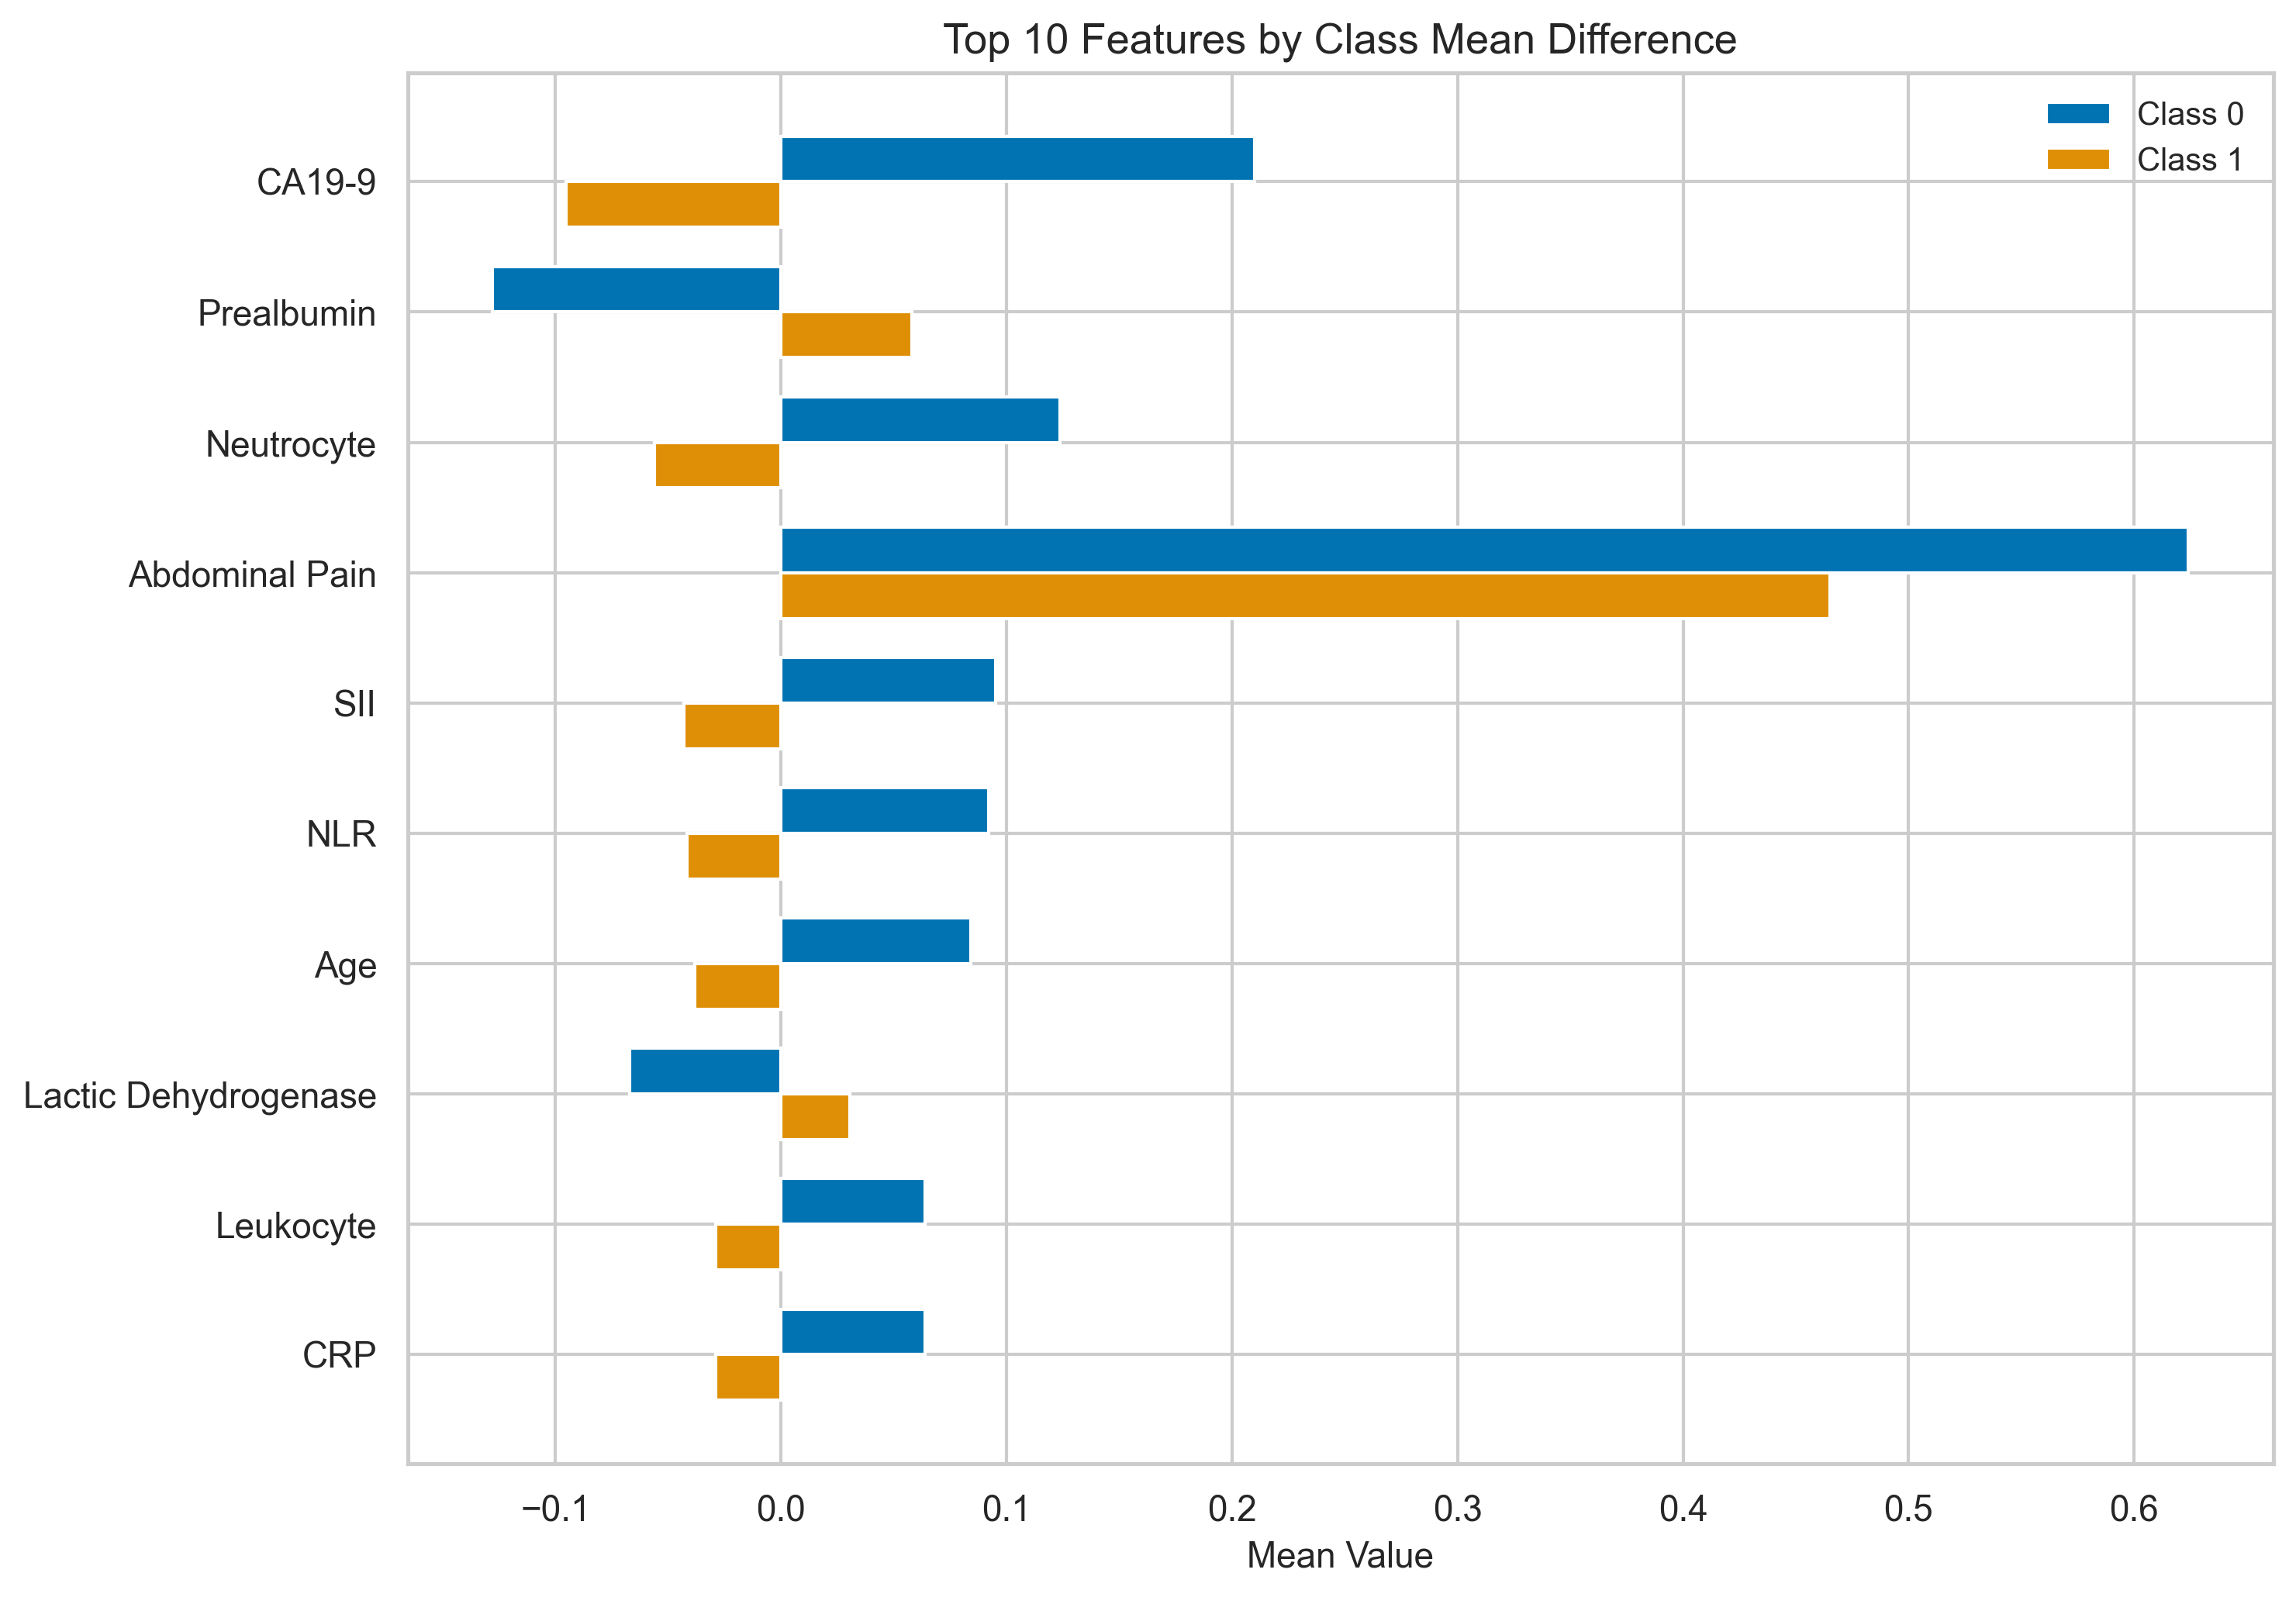
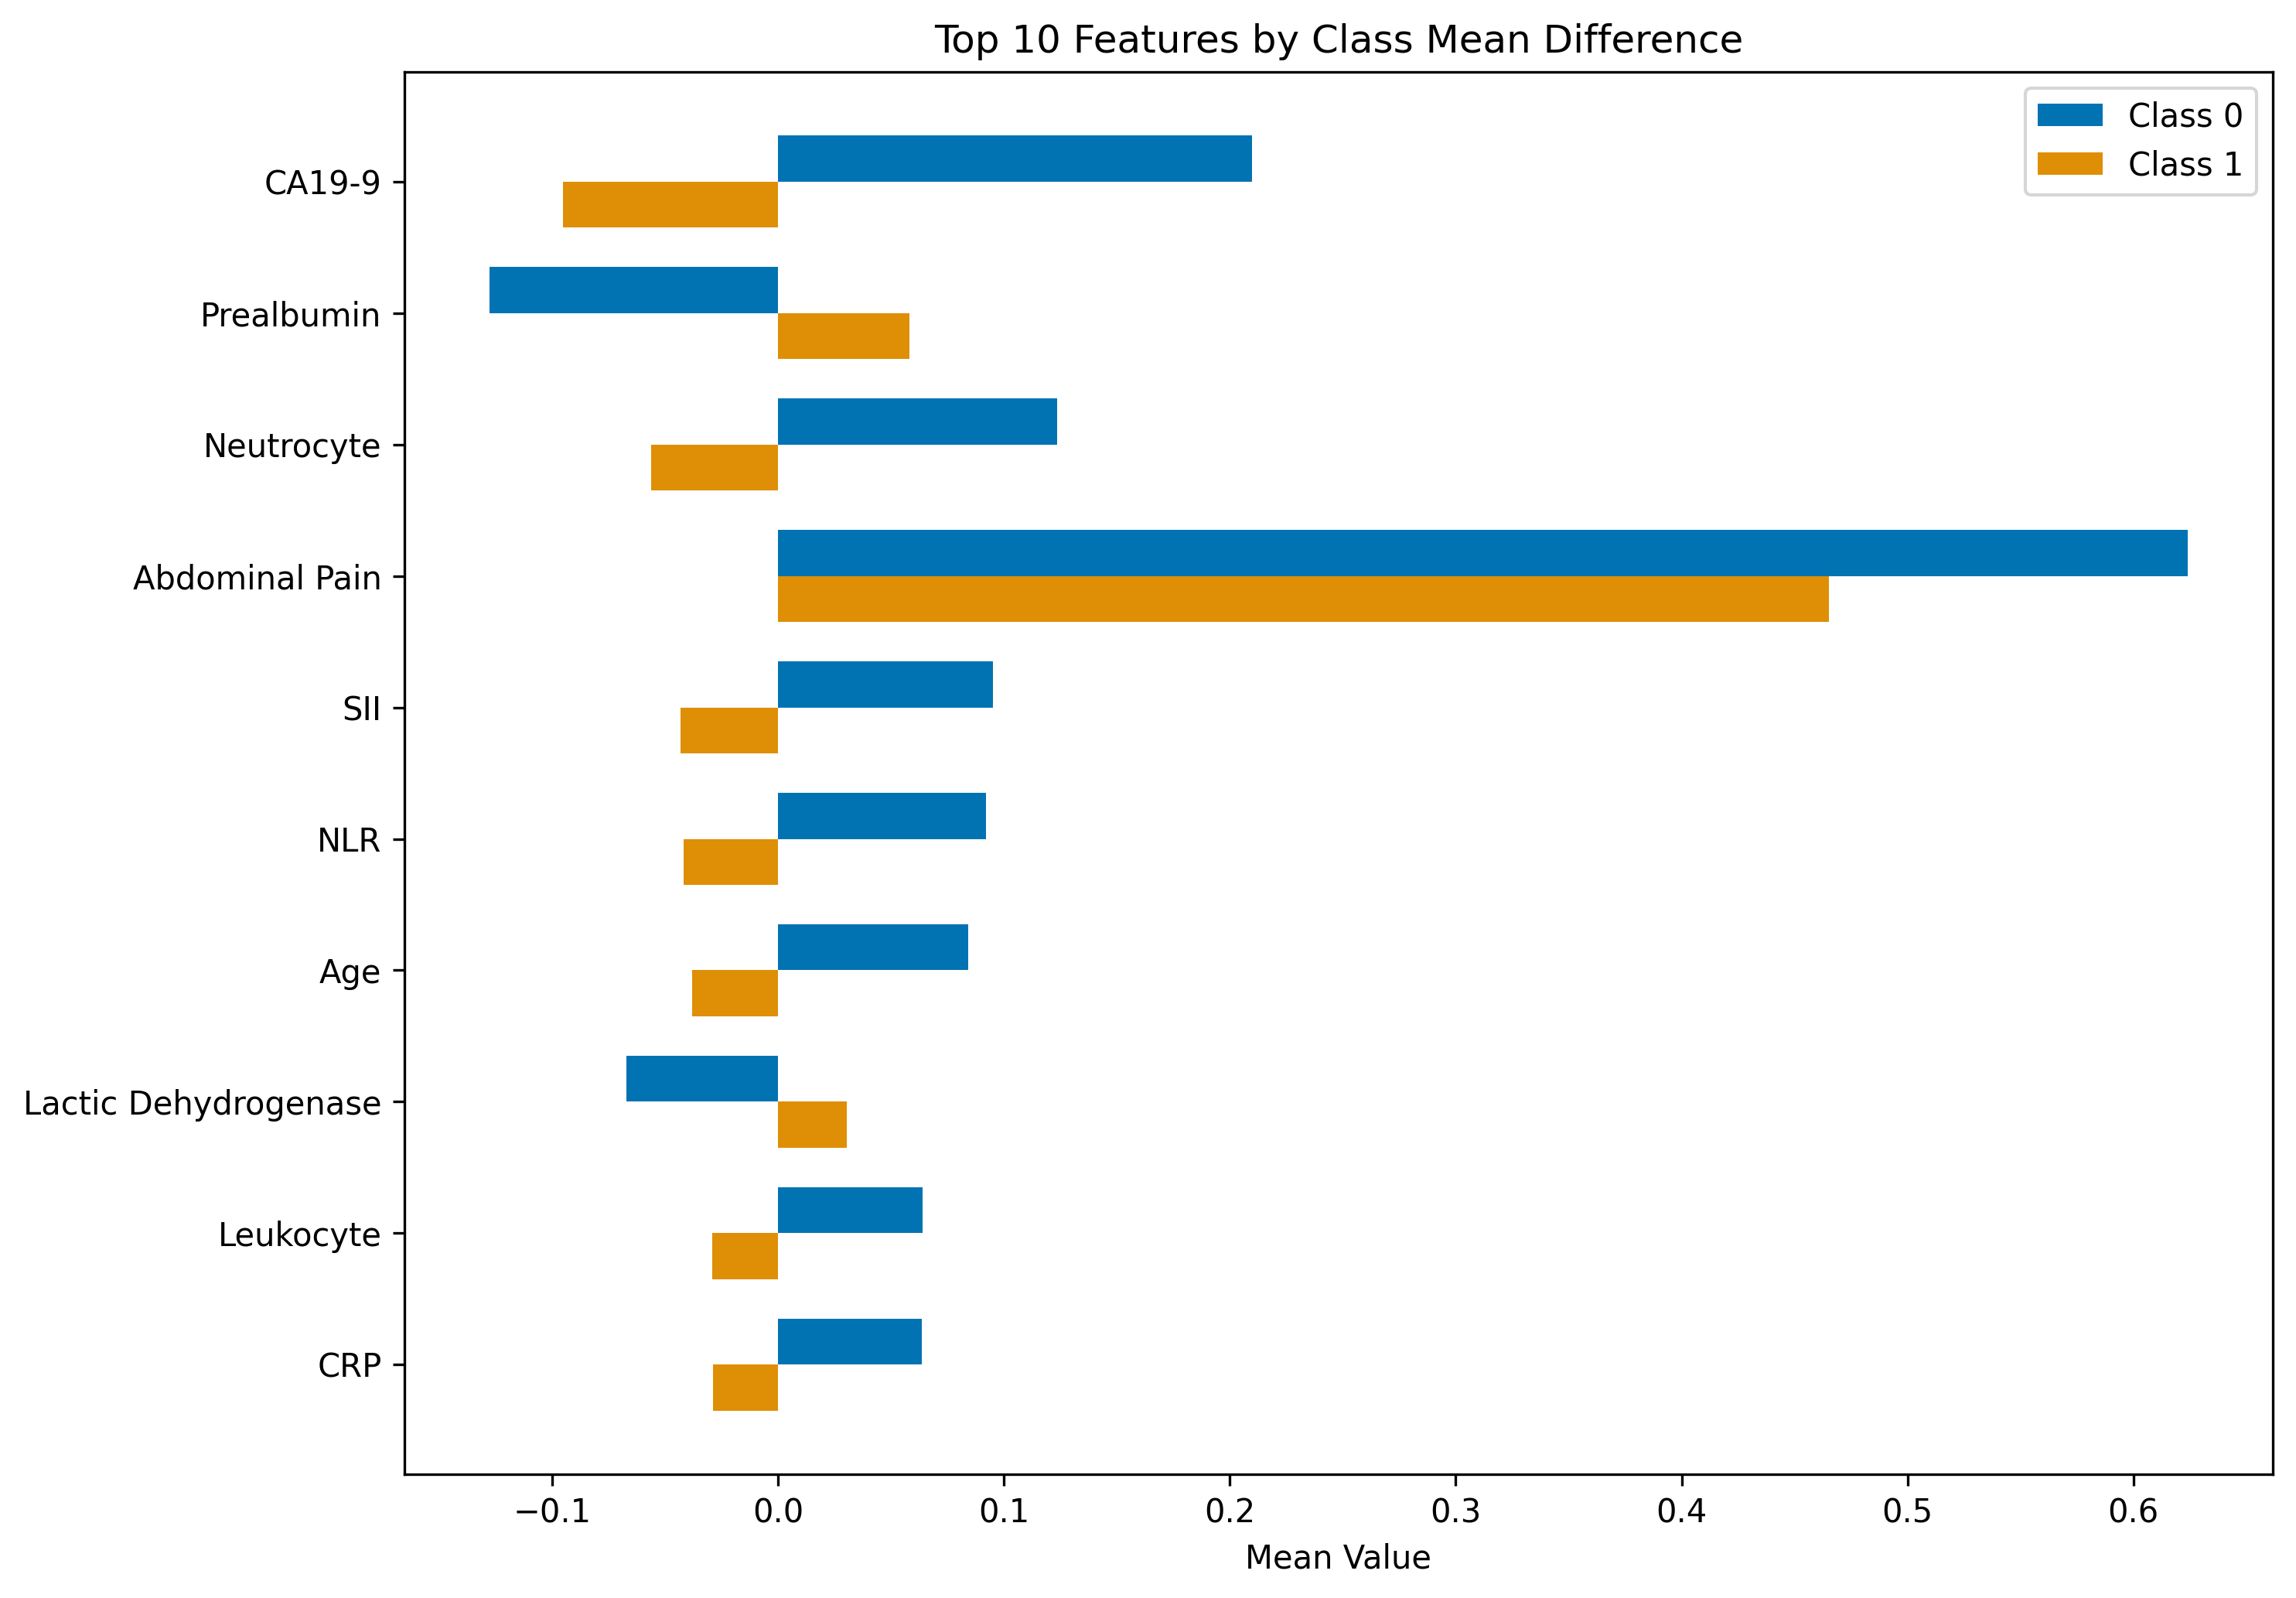
updated notebook for more parallel markdown cells

diff --git a/Documentations/PCSPF_Capstone_Defense_Presentation.html b/Documentations/PCSPF_Capstone_Defense_Presentation.html
@@ -379,8 +379,8 @@ body.show-notes .snotes{display:block}
       <p class="fig-cap">Source: PCSPF Capstone, n=878, Section 3.3</p>
     </div></div>
       <div class="lr-right fig-right">
-        <ul><li>Right-skewed: CA19-9, CRP, CEA, bilirubin (heavy clinical tails)</li><li>D'Agostino-Pearson: most features non-normal (p &lt; 0.05)</li><li>Decision: no Yeo-Johnson transform (RF rank-invariant; scaler for K-Means)</li></ul>
-        <div class="callout stat compact"><strong>Statistical reading</strong><p>Right-skewed distributions on CA19-9, CRP, CEA, and bilirubin. Released file values are already z-scored (mean~0, std&gt;=1).</p></div>
+        <ul><li>Right-skewed: CEA, PLR/NLR/SII, CRP, bilirubin (CA19-9 moderate only)</li><li>D'Agostino-Pearson: most features non-normal (p &lt; 0.05)</li><li>Decision: no Yeo-Johnson transform (RF rank-invariant; scaler for K-Means)</li></ul>
+        <div class="callout stat compact"><strong>Statistical reading</strong><p>Heaviest right skew on CEA, inflammatory ratios (PLR, Neutrocyte, NLR, SII), CRP, and bilirubin. CA19-9 is moderately skewed only (Section 4.5).</p></div>
         <div class="callout clinical compact"><strong>Clinical interpretation</strong><p>Most tumor markers and inflammation labs have long right tails - a few patients with very high CA19-9, CRP, or bilirubin. Clinically, those extremes often reflect advanced obstructive jaundice, heavy tumor burden, or systemic inflammation rather than &#x27;bad data points.&#x27;</p></div>
       </div>
     </div></div>
@@ -419,7 +419,7 @@ body.show-notes .snotes{display:block}
       <p class="fig-cap">Source: PCSPF Capstone, n=878, Section 3.7</p>
     </div></div>
       <div class="lr-right fig-right">
-        <ul><li>Largest gaps: Abdominal Pain, CA19-9, Prealbumin, inflammatory markers</li><li>Boxplots show heavy overlap &mdash; weak univariate separation</li><li>Multivariate modeling still warranted</li></ul>
+        <ul><li>Largest gaps: Abdominal Pain, CA19-9, Prealbumin, inflammatory markers</li></ul>
         <div class="callout stat compact"><strong>Statistical reading</strong><p>Largest gaps: Abdominal Pain, CA19-9, Prealbumin, inflammatory markers. Differences are visible but modest.</p></div>
         <div class="callout clinical compact"><strong>Clinical interpretation</strong><p>Patients who died within a year reported more abdominal pain and had higher CA19-9 with lower prealbumin - a pattern consistent with symptomatic, nutritionally depleted, higher-burden disease at presentation. These are clinically recognizable risk signals even though none dominates alone.</p></div>
       </div>
@@ -446,7 +446,7 @@ body.show-notes .snotes{display:block}
   <div class="si">
     <span class="snum">10</span>
     <h2 class="st">Preprocessing: Data Quality Checks</h2>
-    <div class="sb"><div class="vt-list"><div class="vt-item"><span class="vt-num">1</span><div><strong>Data Types Verified</strong><p>20 predictors + target after cleaning: 2 binary (Sex, Abdominal Pain) as integers; 18 continuous labs as float64. Confirmed before any modeling step.</p></div></div><div class="vt-item"><span class="vt-num">2</span><div><strong>Missing Values: None</strong><p>Zero nulls across all 878 rows and 21 columns. Verified with isnull().sum(), df.info(), and df.describe() -- no imputation required.</p></div></div><div class="vt-item"><span class="vt-num">3</span><div><strong>Duplicate Rows: None</strong><p>0 duplicate patient records detected. Each row represents one unique surgical case with complete preoperative feature set.</p></div></div><div class="vt-item"><span class="vt-num">4</span><div><strong>Imputation: Not Applied</strong><p>Because the released PCSPF file is complete, we did not introduce synthetic values. This preserves the original clinical cohort without imputation bias.</p></div></div></div></div>
+    <div class="sb"><div class="vt-list"><div class="vt-item"><span class="vt-num">1</span><div><strong>Data Types Verified</strong><p>20 predictors + target after cleaning: 2 binary (Sex, Abdominal Pain) as integers; 18 continuous labs as float64. Confirmed before any modeling step.</p></div></div><div class="vt-item"><span class="vt-num">2</span><div><strong>Missing Values: None</strong><p>Zero nulls across all 878 rows and 21 columns. Verified with isnull().sum(), df.info(), and df.describe() -- no imputation required.</p></div></div><div class="vt-item"><span class="vt-num">3</span><div><strong>Duplicate Rows: None</strong><p>0 duplicate patient records detected. Each row represents one unique surgical case with complete preoperative feature set.</p></div></div><div class="vt-item"><span class="vt-num">4</span><div><strong>Imputation: Not Applied</strong><p>Because the released PCSPF file is complete, we did not introduce synthetic values. This preserves the original clinical cohort without imputation bias.</p></div></div><div class="vt-item"><span class="vt-num">5</span><div><strong>Column Cleaning and Released Scale</strong><p>Dropped ID and Predict label 1/0 (100% NaN in raw file). Clean frame: 878 rows &amp;times; 21 columns (20 features + target). Continuous labs are pre-z-scored in the released PCSPF file (mean &amp;asymp; 0, std &amp;asymp; 1).</p></div></div></div></div>
     <aside class="snotes"><strong>Speaker notes:</strong> Speak slowly; professor audits preprocessing.</aside>
   </div>
 </section>
@@ -462,9 +462,9 @@ body.show-notes .snotes{display:block}
       <p class="fig-cap">Source: PCSPF Capstone, n=878, Section 4.4</p>
     </div></div>
       <div class="lr-right fig-right">
-        <p><strong>IQR rule (1.5&times;)</strong> on 18 continuous features</p><ul><li>Extreme values on CA19-9, CRP, CEA, bilirubin &mdash; retained</li><li>Clinically severe patients, not recording errors</li><li>Removing outliers would bias toward healthier cases</li><li>No normality transform applied (RF rank-invariant)</li></ul>
-        <div class="callout stat compact"><strong>Statistical reading</strong><p>Outliers concentrate on CA19-9, CRP, CEA, and bilirubin - extreme lab values, not data errors.</p></div>
-        <div class="callout clinical compact"><strong>Clinical interpretation</strong><p>The flagged outliers are exactly the markers that spike in aggressive pancreatic cancer: markedly elevated CA19-9 or CEA, high CRP from inflammation, and bilirubin from biliary obstruction. These patients are often the most clinically complex - not statistical noise.</p></div>
+        <p><strong>IQR rule (1.5&times;)</strong> on 18 continuous features</p><ul><li>Extreme values on CEA, CRP, inflammatory ratios, and bilirubin &mdash; retained</li><li>Clinically severe patients, not recording errors</li><li>Removing outliers would bias toward healthier cases</li><li>No normality transform applied (RF rank-invariant)</li></ul>
+        <div class="callout stat compact"><strong>Statistical reading</strong><p>Outliers concentrate on CEA (10.4%), NLR/SII, CRP/CRP/ALB, and bilirubin - extreme lab values, not data errors. CA19-9 has zero IQR outliers (wide Q1-Q3 spread); its right skew appears in histograms (Section 3.3), not as dots beyond these whiskers.</p></div>
+        <div class="callout clinical compact"><strong>Clinical interpretation</strong><p>Flagged outliers reflect severe preoperative disease: CEA reaches the most extreme z-scores (~27), with inflammatory indices (NLR, SII, PLR, Neutrocyte) and bilirubin also extending past z~10. CA19-9 remains clinically relevant in EDA and RF importance even though the IQR rule flags zero outliers here.</p></div>
       </div>
     </div></div>
     <aside class="snotes"><strong>Speaker notes:</strong> Stress clinical validity of extreme labs. Defense: outliers carry prognostic signal.</aside>
@@ -1002,7 +1002,7 @@ body.show-notes .snotes{display:block}
   <div class="si">
     <span class="snum">A8</span>
     <h2 class="st">Appendix: Preprocessing Decision Register</h2>
-    <div class="sb"><p class="tbl-label">Table 14. Full preprocessing register</p><table class="dt"><thead><tr><th>Step</th><th>Action</th><th>Justification</th></tr></thead><tbody><tr><td>Drop ID, Predict labels</td><td>Removed 3 columns</td><td>ID anonymized; Predict columns 100% NaN — unusable labels.</td></tr><tr><td>Missing values</td><td>No imputation</td><td>Zero nulls after column drop; verified three ways.</td></tr><tr><td>Duplicates</td><td>None removed</td><td>0 duplicate rows confirmed.</td></tr><tr><td>Outliers</td><td>Retained all</td><td>IQR/z-score documented; extremes are clinically severe patients.</td></tr><tr><td>Normality transform (Yeo-Johnson)</td><td>Not applied</td><td>RF rank-invariant; StandardScaler sufficient for K-Means.</td></tr><tr><td>Multicollinearity (VIF)</td><td>Retain all 20 features</td><td>RF random feature subsampling; ratio features clinically validated.</td></tr><tr><td>Feature engineering</td><td>None added</td><td>NLR, PLR, SII, CRP/ALB already in dataset.</td></tr><tr><td>Feature selection</td><td>All 20 retained</td><td>Same set for RF and K-Means; importance post-hoc.</td></tr><tr><td>SMOTE</td><td>Not used</td><td>class_weight=&#x27;balanced&#x27; preferred; real patients only.</td></tr><tr><td>RF scaling</td><td>None</td><td>Tree splits are scale-invariant.</td></tr><tr><td>K-Means scaling</td><td>StandardScaler on full X (878×20)</td><td>Euclidean distance requires comparable scales.</td></tr><tr><td>Train-test split</td><td>80/20 stratified, seed=42</td><td>702 train / 176 test; proportions preserved.</td></tr></tbody></table></div>
+    <div class="sb"><p class="tbl-label">Table 14. Full preprocessing register</p><table class="dt"><thead><tr><th>Step</th><th>Action</th><th>Justification</th></tr></thead><tbody><tr><td>Drop ID, Predict labels</td><td>Removed 3 columns</td><td>ID anonymized; Predict columns 100% NaN — unusable labels.</td></tr><tr><td>Missing values</td><td>No imputation</td><td>Zero nulls after column drop; verified three ways.</td></tr><tr><td>Duplicates</td><td>None removed</td><td>0 duplicate rows confirmed.</td></tr><tr><td>Outliers</td><td>Retained all</td><td>IQR documented; highest on CEA (10.4%), NLR/SII, CRP, bilirubin; CA19-9 = 0% (wide IQR).</td></tr><tr><td>Normality transform (Yeo-Johnson)</td><td>Not applied</td><td>RF rank-invariant; StandardScaler sufficient for K-Means.</td></tr><tr><td>Multicollinearity (VIF)</td><td>Retain all 20 features</td><td>RF random feature subsampling; ratio features clinically validated.</td></tr><tr><td>Feature engineering</td><td>None added</td><td>NLR, PLR, SII, CRP/ALB already in dataset.</td></tr><tr><td>Feature selection</td><td>All 20 retained</td><td>Same set for RF and K-Means; importance post-hoc.</td></tr><tr><td>SMOTE</td><td>Not used</td><td>class_weight=&#x27;balanced&#x27; preferred; real patients only.</td></tr><tr><td>RF scaling</td><td>None</td><td>Tree splits are scale-invariant.</td></tr><tr><td>K-Means scaling</td><td>StandardScaler on full X (878×20)</td><td>Euclidean distance requires comparable scales.</td></tr><tr><td>Train-test split</td><td>80/20 stratified, seed=42</td><td>702 train / 176 test; proportions preserved.</td></tr></tbody></table></div>
     <aside class="snotes"><strong>Speaker notes:</strong> Full register for audit questions.</aside>
   </div>
 </section>

diff --git a/scripts/update_notebook_markdown.py b/scripts/update_notebook_markdown.py
@@ -59,6 +59,29 @@ SYNTHESIS_CELL = """**Ranking comparison (Section 8.1).** Random Forest Gini imp
 
 CONVERGENCE_PARA = """**Partial convergence.** Only CRP/ALB ranks in both top-5 lists. RF and K-Means weight different markers because prediction and phenotype grouping are different tasks. Together they still support a coherent clinical story about tumor burden, nutrition, and inflammation - without implying the same features drive both analyses equally."""
 
+TEXT_REPLACEMENTS = [
+    (
+        "This imbalance will be addressed later with class_weight='balanced' in Random Forest.",
+        "This imbalance will be addressed with class_weight='balanced' in Random Forest and evaluated with macro F1 and class-0 recall rather than accuracy alone.",
+    ),
+    (
+        "We will use class_weight='balanced' in Random Forest and emphasize F1-score and AUC-ROC in evaluation.",
+        "We address this with class_weight='balanced' in Random Forest and evaluate with **macro F1**, **class-0 recall**, AUC-ROC, and the full classification report—not accuracy alone. Hyperparameter tuning in Section 7.2 uses `scoring='f1_macro'` so the GridSearch objective matches our primary test metrics.",
+    ),
+    (
+        "Evaluation emphasizes F1-score, AUC-ROC, confusion matrix, and full classification report rather than accuracy alone.",
+        "Primary evaluation metrics are **macro F1** and **class-0 recall** (both classes matter under imbalance), plus AUC-ROC, confusion matrix, and classification report. GridSearchCV in Section 7.2 tunes with `scoring='f1_macro'`; legacy `scoring='f1'` is retained only as a reference comparison row.",
+    ),
+    (
+        "imbalance handling via class_weight='balanced' is essential.",
+        "imbalance handling via class_weight='balanced' is essential, with Section 7.2 tuning RF using `f1_macro` to align optimization with macro F1 evaluation.",
+    ),
+    (
+        "Overall performance should exceed the 68.8% majority baseline. AUC near 0.7-0.8 is acceptable for clinical screening contexts.",
+        "The primary **f1_macro** tuned model prioritizes balanced class performance over majority-class accuracy: test accuracy (~61.9%) may fall **below** the 68.8% baseline while macro F1 (0.550) and class-0 recall (36.4%) improve versus legacy `f1` tuning. AUC-ROC (0.563) remains below the ~0.7 clinical utility threshold.",
+    ),
+]
+
 CELL_153 = """### 7.5 Model Comparison: Benchmarking Random Forest Against Alternatives
 
 To validate our model choice, we benchmarked the **f1_macro tuned** Random Forest against three alternatives - Logistic Regression, SVM RBF, and Gradient Boosting - on the same train-test split with the same random seed.
@@ -89,6 +112,14 @@ def main():
             cell["source"].pop()
         cell.pop("outputs", None)
         cell.pop("execution_count", None)
+
+    for cell in nb["cells"]:
+        src = "".join(cell.get("source", []))
+        if cell.get("cell_type") != "markdown":
+            continue
+        for old, new in TEXT_REPLACEMENTS:
+            if old in src:
+                cell["source"] = [line.replace(old, new) for line in cell["source"]]
 
     for cell in nb["cells"]:
         src = "".join(cell.get("source", []))

diff --git a/scripts/study_guide_figures.py b/scripts/study_guide_figures.py
@@ -23,7 +23,10 @@ FIGURE_GUIDE = [
     {
         "num": 2, "file": "feature_distributions.png", "section": "3.3",
         "shows": "4x5 grid of histograms + KDE for 18 continuous preoperative features.",
-        "interpretation": "Right-skewed distributions on CA19-9, CRP, CEA, and bilirubin. Released file values are already z-scored (mean~0, std>=1).",
+        "interpretation": (
+            "Heaviest right skew on CEA, inflammatory ratios (PLR, Neutrocyte, NLR, SII), CRP, and bilirubin. "
+            "CA19-9 is moderately skewed only (Section 4.5). Released file values are already z-scored (mean~0, std>=1)."
+        ),
         "clinical_interpretation": (
             "Most tumor markers and inflammation labs have long right tails - a few patients with very high CA19-9, "
             "CRP, or bilirubin. Clinically, those extremes often reflect advanced obstructive jaundice, heavy "
@@ -93,19 +96,22 @@ FIGURE_GUIDE = [
     {
         "num": 6, "file": "outlier_boxplots.png", "section": "4.4",
         "shows": "Per-feature z-score boxplots highlighting IQR outliers.",
-        "interpretation": "Outliers concentrate on CA19-9, CRP, CEA, and bilirubin - extreme lab values, not data errors.",
+        "interpretation": (
+            "Outliers concentrate on CEA (10.4%), NLR/SII, CRP/CRP/ALB, and bilirubin - extreme lab values, not data errors. "
+            "CA19-9 has zero IQR outliers (wide Q1-Q3 spread); its right skew appears in histograms (Section 3.3), not as dots beyond these whiskers."
+        ),
         "clinical_interpretation": (
-            "The flagged outliers are exactly the markers that spike in aggressive pancreatic cancer: markedly elevated "
-            "CA19-9 or CEA, high CRP from inflammation, and bilirubin from biliary obstruction. These patients are "
-            "often the most clinically complex - not statistical noise."
+            "Flagged outliers reflect severe preoperative disease: CEA reaches the most extreme z-scores (~27), "
+            "with inflammatory indices (NLR, SII, PLR, Neutrocyte) and bilirubin also extending past z~10. "
+            "CA19-9 remains clinically relevant in EDA and RF importance even though the IQR rule flags zero outliers here."
         ),
         "implications": "Supports retaining all outliers; removal would discard the sickest patients.",
         "clinical_implication": (
-            "Defense line: 'We kept outliers because removing a CA19-9 of 1000 or bilirubin in obstructive jaundice "
-            "would mean training on a healthier, easier subset.' That would inflate accuracy and misrepresent real preoperative practice."
+            "Defense line: 'We kept outliers because removing a CEA spike or bilirubin in obstructive jaundice would mean training "
+            "on a healthier, easier subset.' Mention CA19-9 separately as a tumor marker in RF importance, not as an IQR outlier on this figure."
         ),
-        "point_out": "Outliers = clinical severity, not noise.",
-        "dont_claim": "Do not say outliers were removed or winsorized.",
+        "point_out": "CEA leads IQR outlier counts; CA19-9 = 0% under the 1.5x rule.",
+        "dont_claim": "Do not say outliers were removed or winsorized. Do not claim CA19-9 shows IQR outliers on this chart.",
     },
     {
         "num": 7, "file": "preprocessing_summary.png", "section": "4.10",

diff --git a/scripts/assemble_notebook.py b/scripts/assemble_notebook.py
@@ -294,10 +294,10 @@ plt.savefig("figures/class_conditional_means.png", dpi=300, bbox_inches="tight")
 plt.show()
 """))
     cells.append(md(
-        "CA19-9, inflammatory markers, and NLR/SII show the largest absolute mean gaps. "
-        "Clinically, higher tumor burden and systemic inflammation associate with shorter "
-        "survival, while higher prealbumin associates with better outcomes. Binary Abdominal "
-        "Pain also differs between classes. These patterns align with pancreatic cancer "
+        "By |mean| difference, CA19-9 leads (0.305), followed by Prealbumin, Neutrocyte, "
+        "Abdominal Pain, and inflammatory indices (SII, NLR, CRP). Class 0 (died <1 yr) "
+        "shows higher CA19-9, Abdominal Pain, and inflammatory markers; Class 1 (survived "
+        "≥1 yr) shows higher Prealbumin. These patterns align with pancreatic cancer "
         "prognostic literature but remain modest at the univariate level."
     ))
 
@@ -406,8 +406,11 @@ plt.savefig("figures/outlier_boxplots.png", dpi=300, bbox_inches="tight")
 plt.show()
 """))
     c.append(md(
-        "CA19-9, CRP, CEA, and bilirubin features show the highest outlier percentages, "
-        "predominantly upper-tail extremes consistent with skewed oncology labs."
+        "CEA shows the highest outlier rate (10.4%; 91/878), followed by NLR (6.8%), SII (6.3%), "
+        "bilirubin (~5-6%), and CRP/CRP/ALB (~5.6%)—predominantly upper-tail extremes consistent with "
+        "skewed oncology and inflammation labs. CA19-9 registers 0% under the 1.5×IQR rule: its wide "
+        "interquartile range absorbs all observed values, so no points appear beyond the boxplot whiskers "
+        "despite right skew in Section 3.3."
     ))
     c.append(md(
         "**Decision: Do NOT remove outliers.** (1) Clinical validity: extreme labs are "
@@ -445,7 +448,10 @@ display(skew_tbl.round(4))
 """))
     c.append(md(
         "Most continuous features are significantly non-normal by D'Agostino-Pearson "
-        "(p < 0.05). CA19-9, CRP, CEA, and bilirubin markers are among the most skewed."
+        "(p < 0.05). The heaviest right skew is on CEA (skew ≈ 23.9), followed by "
+        "inflammatory ratios (PLR, Neutrocyte, NLR, SII) and lactic dehydrogenase; CRP, "
+        "CRP/ALB, and bilirubin pairs are also skewed. CA19-9 is only moderately skewed "
+        "(|skew| ≈ 0.55), well below the tail-heavy tumor and inflammation markers above."
     ))
     c.append(md(
         "**Decision: Do NOT apply Yeo-Johnson, Box-Cox, or log transformation.** "

diff --git a/scripts/study_guide_content.py b/scripts/study_guide_content.py
@@ -329,7 +329,7 @@ PREPROCESSING_EXTENDED = [
      "0 duplicate rows confirmed.",
      "If removed aggressively: no duplicates exist anyway."),
     ("Outliers", "Retained all",
-     "IQR/z-score documented; extremes are clinically severe patients.",
+     "IQR documented; highest on CEA (10.4%), NLR/SII, CRP, bilirubin; CA19-9 = 0% (wide IQR).",
      "If removed: lose 5–10% of data including highest-risk cases; bias toward mild disease."),
     ("Normality transform (Yeo-Johnson)", "Not applied",
      "RF rank-invariant; StandardScaler sufficient for K-Means.",
@@ -548,8 +548,8 @@ QA_BANK = [
      "TNM staging or resectability status — strongest prognostic factor missing from preoperative "
      "labs-only dataset; would likely raise AUC substantially."),
     ("Why retain outliers instead of capping?",
-     "Extreme CA19-9/CRP values identify severe disease; capping would compress signal from "
-     "sickest patients."),
+     "Extreme CEA/CRP/inflammation values identify severe disease; capping would compress signal from "
+     "sickest patients. CA19-9 is prognostically important in EDA/RF but registers 0% IQR outliers here."),
     ("Why D'Agostino-Pearson instead of Shapiro-Wilk?",
      "Shapiro-Wilk is recommended for n < 5000 but degrades with large n; D'Agostino-Pearson "
      "handles n=878 continuous features appropriately."),
@@ -576,7 +576,7 @@ SLIDE_SECTION_MAP = [
     ("7", "Feature Distributions", "3.3, 4.5", "feature_distributions.png"),
     ("8", "Correlation / Multicollinearity", "3.5–3.6, 4.6", "correlation_heatmap.png"),
     ("9", "Class-Conditional Differences", "3.4, 3.7", "class_conditional_means.png, boxplots"),
-    ("10", "Data Quality Checks", "4.1–4.3", "Types, nulls, duplicates"),
+    ("10", "Data Quality Checks", "4.1–4.3", "Types, nulls, duplicates, column drops, pre-z-scored labs"),
     ("11", "Outliers & Normality", "4.4–4.5", "outlier_boxplots.png"),
     ("12", "VIF & Feature Decisions", "4.6–4.8", "VIF table in notebook"),
     ("13", "Preprocessing Summary", "4.10", "preprocessing_summary.png"),
@@ -729,11 +729,11 @@ SECTION_WALKTHROUGHS = {
         ],
         "interpretation": (
             "Weak univariate signal and strong inter-feature correlation. Right-skewed tumor/inflammation "
-            "markers. Modest class-conditional differences on CA19-9, Prealbumin, Abdominal Pain. "
+            "markers. Modest class-conditional differences led by CA19-9, then Prealbumin, Neutrocyte, Abdominal Pain. "
             "Multivariate nonlinear models warranted."
         ),
         "professor_questions": [
-            "Strongest correlate with survival? — All |r| < 0.15; Abdominal Pain among largest mean diffs.",
+            "Strongest correlate with survival? — All |r| < 0.15; CA19-9 leads |mean| diffs (Abdominal Pain ranks 4th).",
             "Why Pearson not Spearman? — Pearson standard for z-scored continuous; rank correlation similar here.",
             "Does EDA prove RF will work? — No; it sets realistic expectations for modest AUC.",
         ],
@@ -775,13 +775,17 @@ SECTION_WALKTHROUGHS = {
             "No imputation", "No SMOTE", "No feature dropping", "No outlier removal",
         ],
         "interpretation": (
-            "Data quality is high (zero nulls, zero duplicates). Non-normal distributions documented "
-            "but not corrected for RF. Multicollinearity acknowledged but retained for clinical validity."
+            "Data quality is high (zero nulls, zero duplicates). IQR outliers are highest on CEA (10.4%), "
+            "NLR (6.8%), SII (6.3%), bilirubin (~5-6%), and CRP/CRP/ALB (~5.6%); CA19-9 = 0% because its wide "
+            "IQR absorbs the upper tail. Heaviest skew: CEA, PLR/NLR/SII, then CRP/bilirubin; "
+            "CA19-9 moderately skewed only. Non-normal distributions documented but not corrected for RF. "
+            "Multicollinearity acknowledged but retained for clinical validity."
         ),
         "professor_questions": [
             "Why not drop NLR when VIF is high? — RF handles collinearity; NLR is clinically standard.",
             "Why D'Agostino-Pearson not Shapiro-Wilk? — n=878 too large for Shapiro assumptions.",
             "Four reasons to keep outliers? — Clinical severity, not errors; removal biases sample.",
+            "Why no dots on CA19-9 in the outlier boxplot? — Wide IQR; max z-score stays inside the 1.5x fence.",
         ],
     },
     "5": {

diff --git a/scripts/audit_content.py b/scripts/audit_content.py
@@ -133,7 +133,7 @@ PREPROCESSING_DECISIONS = [
     ("Drop ID, Predict labels", "Removed", "ID anonymized; predict columns 100% NaN"),
     ("Missing values", "No imputation", "Zero nulls after column drop"),
     ("Duplicates", "None removed", "0 duplicate rows"),
-    ("Outliers", "Retained", "Clinically meaningful extremes; IQR documented"),
+    ("Outliers", "Retained", "IQR documented; highest CEA 10.4%; CA19-9 = 0% (wide IQR)"),
     ("Normality transform", "Not applied", "RF rank-invariant; scaler for K-Means only"),
     ("Multicollinearity (VIF)", "Retain all features", "RF subsampling; ratio features clinically validated"),
     ("Feature engineering", "None added", "NLR, PLR, SII, CRP/ALB already in dataset"),
@@ -273,7 +273,7 @@ def section_processes():
                  "We explained why some columns overlap clinically."),
                 ("3.7", "Class-conditional means", "groupby + bar chart",
                  "Mean diff class 0 vs 1; top 10 → class_conditional_means.png.",
-                 "Sorted by |diff|", "Largest gaps: Abdominal Pain, CA19-9, Prealbumin.",
+                 "Sorted by |diff|", "Largest gaps: CA19-9, Prealbumin, Neutrocyte, Abdominal Pain.",
                  "Quantifies weak univariate separation.",
                  "We measured which labs differ most by outcome."),
                 ("3.8", "EDA summary", "Synthesis markdown",
@@ -292,13 +292,14 @@ def section_processes():
                 ("4.2", "Missing values", "isnull audit", "Triple check — all zero.", "N/A", "No imputation.", "Three verification methods.", "We confirmed no empty cells."),
                 ("4.3", "Duplicates", "duplicated()", "0 exact duplicates.", "N/A", "All rows retained.", "Documented.", "No duplicate patients."),
                 ("4.4", "Outliers", "IQR 1.5× rule",
-                 "Counts per feature; z-score boxplot → outlier_boxplots.png.",
+                 "Counts per feature; z-score boxplot → outlier_boxplots.png. "
+                 "Highest: CEA 10.4%; CA19-9 = 0% (wide IQR).",
                  "1.5×IQR", "Decision: RETAIN all outliers.",
                  "Clinical extremes are informative.",
                  "We counted extremes but kept them."),
                 ("4.5", "Skewness & normality", "normaltest",
                  "Skew/kurtosis table; D'Agostino-Pearson per feature.",
-                 "alpha=0.05", "Most non-normal; no transform applied.",
+                 "alpha=0.05", "Most non-normal; CEA/PLR/NLR most skewed; CA19-9 moderate; no transform.",
                  "RF uses ranks; K-Means uses scaler.",
                  "We tested bell-curve assumptions."),
                 ("4.6", "VIF", "variance_inflation_factor",

diff --git a/scripts/generate_presentation_html.py b/scripts/generate_presentation_html.py
@@ -386,7 +386,7 @@ def build_slides() -> str:
     s.append(slide(7, "II", "EDA: Feature Distributions and Skewness",
         fig_left_slide("feature_distributions.png", "Histograms + KDE for 18 continuous features",
             bullets([
-                "Right-skewed: CA19-9, CRP, CEA, bilirubin (heavy clinical tails)",
+                "Right-skewed: CEA, PLR/NLR/SII, CRP, bilirubin (CA19-9 moderate only)",
                 "D'Agostino-Pearson: most features non-normal (p &lt; 0.05)",
                 "Decision: no Yeo-Johnson transform (RF rank-invariant; scaler for K-Means)",
             ])
@@ -407,8 +407,6 @@ def build_slides() -> str:
         fig_left_slide("class_conditional_means.png", "Top 10 mean differences by survival class",
             bullets([
                 "Largest gaps: Abdominal Pain, CA19-9, Prealbumin, inflammatory markers",
-                "Boxplots show heavy overlap &mdash; weak univariate separation",
-                "Multivariate modeling still warranted",
             ])
         ), "Reinforce weak signal theme."))
 
@@ -428,6 +426,9 @@ def build_slides() -> str:
         ("4", "Imputation: Not Applied",
          "Because the released PCSPF file is complete, we did not introduce synthetic values. "
          "This preserves the original clinical cohort without imputation bias."),
+        ("5", "Column Cleaning and Released Scale",
+         "Dropped ID and Predict label 1/0 (100% NaN in raw file). Clean frame: 878 rows &times; 21 columns "
+         "(20 features + target). Continuous labs are pre-z-scored in the released PCSPF file (mean &asymp; 0, std &asymp; 1)."),
     ]), "Speak slowly; professor audits preprocessing."))
 
     # 11 Outliers
@@ -435,7 +436,7 @@ def build_slides() -> str:
         fig_left_slide("outlier_boxplots.png", "Per-feature z-score boxplots with IQR outliers",
             '<p><strong>IQR rule (1.5&times;)</strong> on 18 continuous features</p>' +
             bullets([
-                "Extreme values on CA19-9, CRP, CEA, bilirubin &mdash; retained",
+                "Extreme values on CEA, CRP, inflammatory ratios, and bilirubin &mdash; retained",
                 "Clinically severe patients, not recording errors",
                 "Removing outliers would bias toward healthier cases",
                 "No normality transform applied (RF rank-invariant)",

diff --git a/scripts/presentation_outline_data.py b/scripts/presentation_outline_data.py
@@ -147,7 +147,7 @@ SLIDES = [
         "part": "PART II",
         "outline": [
             "Histogram grid: figures/feature_distributions.png (or key subset)",
-            "Right-skewed: CA19-9, CRP, CEA, bilirubin",
+            "Right-skewed: CEA, PLR/NLR/SII, CRP, bilirubin (CA19-9 moderate only)",
             "D'Agostino-Pearson: most non-normal (p < 0.05)",
             "Decision: no transformation (RF invariant; scaler for K-Means)",
         ],
@@ -194,6 +194,7 @@ SLIDES = [
             "Missing: zero (3 verification methods)",
             "Duplicates: zero",
             "Data clean—no imputation or deduplication needed",
+            "Dropped ID + NaN Predict labels; 878×21 frame; continuous labs pre-z-scored",
         ],
         "maker_notes": "Checklist visual with green checkmarks. This slide sets confidence before methodology slides.",
         "presenter_notes": "Speak slowly—professor audits preprocessing carefully.",
@@ -207,7 +208,7 @@ SLIDES = [
         "outline": [
             "IQR outlier method on 18 features",
             "Figure: figures/outlier_boxplots.png",
-            "Outliers on CA19-9, CRP, CEA, bilirubin—RETAINED (4 reasons)",
+            "Outliers on CEA, NLR/SII, CRP, bilirubin—RETAINED (CA19-9 = 0 IQR outliers; 4 reasons)",
             "Normality: D'Agostino-Pearson—most non-normal",
             "No transform applied",
         ],